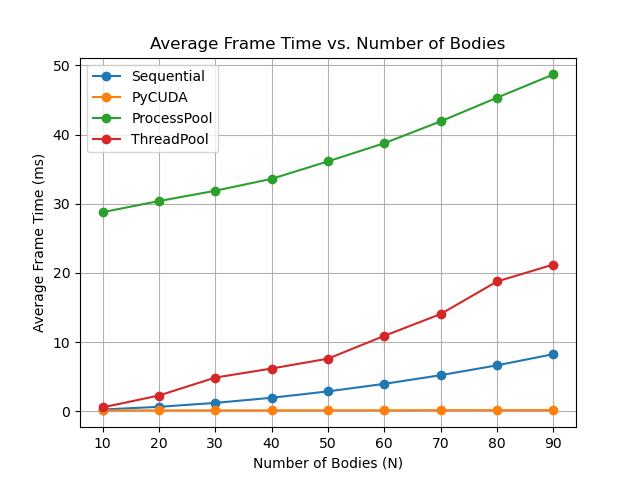
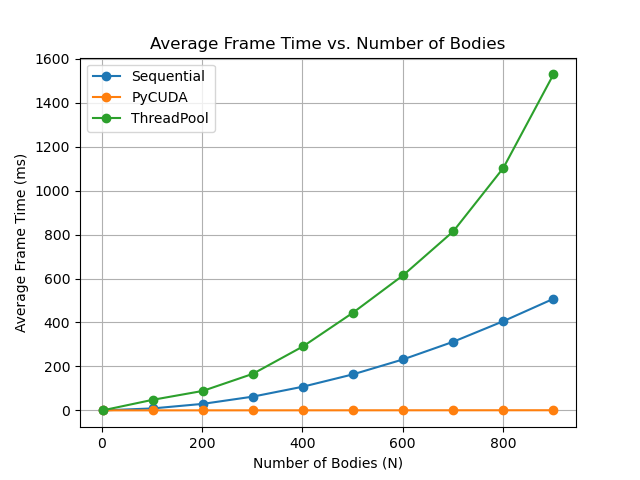
Fix concurrent handler

diff --git a/src/concurrent_handler.py b/src/concurrent_handler.py
@@ -16,23 +16,25 @@ class ConcurrentProcessHandler:
         else:
             self.bodies = bodies
         self.G = G
-        self.softening = softening**3
+        self.softening = softening
         self._total_time = 0.0
         self._frame_count = 0
+        self.positions = []  # To store the positions of all bodies at each timestep
 
     def calculate_acceleration(self, body: Body, other_bodies: List[Body]):
-        for i, body in enumerate(self.bodies):
-            acceleration = np.zeros(2)
-            for j, other_body in enumerate(self.bodies):
-                if i != j:
-                    distance_vector = other_body.position - body.position
-                    distance = np.linalg.norm(distance_vector + self.softening)
-                    acceleration += self.G * other_body.mass / (distance**3) * distance_vector
+        acceleration = np.zeros(2)
+        for other_body in other_bodies:
+            if body != other_body:
+                distance_vector = other_body.position - body.position
+                distance = np.linalg.norm(distance_vector)
+                acceleration += self.G * other_body.mass / (distance**3 + self.softening) * distance_vector
         return acceleration
 
-    def update_body(self, body: Body, dt: float, other_bodies: List[Body]):
-        acceleration = self.calculate_acceleration(body, other_bodies)
-        body.update_velocity(body.velocity + acceleration * dt)
+    def update_body(self, body_index: int, dt: float):
+        body = self.bodies[body_index]
+        acceleration = self.calculate_acceleration(body, self.bodies)
+        body.update_acceleration(acceleration)
+        body.update_velocity(body.velocity + body.acceleration * dt)
         body.update_position(body.position + body.velocity * dt)
         return body
 
@@ -40,8 +42,12 @@ class ConcurrentProcessHandler:
         start_time = time.perf_counter() if measure_time else None
 
         with ProcessPoolExecutor() as executor:
-            futures = [executor.submit(self.update_body, body, dt, self.bodies) for body in self.bodies]
+            futures = [executor.submit(self.update_body, i, dt) for i in range(len(self.bodies))]
             self.bodies = [future.result() for future in as_completed(futures)]
+
+        # Store the current positions of all bodies
+        positions = [body.position for body in self.bodies]
+        self.positions.append(positions)
 
         if measure_time:
             end_time = time.perf_counter()
@@ -56,12 +62,6 @@ class ConcurrentProcessHandler:
         else:
             return 0.0
 
-import numpy as np
-from body import Body
-import time
-from typing import List, Optional
-from concurrent.futures import ThreadPoolExecutor, as_completed
-from threading import Lock
 
 class ConcurrentThreadHandler:
     def __init__(self, N: int, G: float = 6.6743e-11, softening: float = 0.1, bodies: Optional[List[Body]] = None):
@@ -91,10 +91,9 @@ class ConcurrentThreadHandler:
     def update_body(self, body_index: int, dt: float):
         body = self.bodies[body_index]
         acceleration = self.calculate_acceleration(body, self.bodies)
-        with self.lock:
-            body.update_acceleration(acceleration)
-            body.update_velocity(dt)
-            body.update_position(dt)
+        body.update_acceleration(acceleration)
+        body.update_velocity(body.velocity + body.acceleration * dt)
+        body.update_position(body.position + body.velocity * dt)
 
     def update_simulation(self, dt: float, measure_time: bool = False):
         start_time = time.perf_counter() if measure_time else None
@@ -104,7 +103,9 @@ class ConcurrentThreadHandler:
             as_completed(futures)  # Wait for all threads to complete
 
         # Store the current positions of all bodies
-        self.positions.append(np.array([body.position for body in self.bodies]))
+        with self.lock:
+            positions = [body.position for body in self.bodies]
+            self.positions.append(positions)
 
         if measure_time:
             end_time = time.perf_counter()

diff --git a/src/simulate.py b/src/simulate.py
@@ -31,7 +31,7 @@ class SimulationRunner:
     def run(self, measure_time=False):
         for _ in tqdm(range(self.steps), desc="Computing simulation...", colour="red"):
             self.handler.update_simulation(self.dt, measure_time=measure_time)
-            self.positions.append([body.position for body in self.handler.bodies])
+            self.positions.append(np.array([body.position for body in self.handler.bodies]))
 
     def create_gif(self, input_video, output_gif, fps=15, width=600):
         command = [
@@ -47,20 +47,22 @@ class SimulationRunner:
         subprocess.run(command, check=True)
 
     def visualize(self, save: bool = False, output_file: str='simulations/simulation', speed_factor: int=1, base_interval:int =50):
+        #plt.style.use('classic')
         plt.style.use('dark_background')
-
         fig, ax = plt.subplots()
-        ax.set_xlim((-1, 30))
-        ax.set_ylim((-1, 30))
+        num = 8
+        ax.set_xlim((-num, num))
+        ax.set_ylim((-num, num))
         ax.axis('off') # Desactivar los ejes
         # Obtener una paleta de colores
         cmap = plt.get_cmap('viridis', len(self.positions[0]))
         lines = [ax.plot([], [], 'o', color=cmap(i))[0] for i in range(len(self.positions[0]))]
         trails = [ax.plot([], [], '-', linewidth=0.5, color=cmap(i))[0] for i in range(len(self.positions[0]))]
         margin_x, margin_y = 0.02, 0.98  # Ajusta estos valores para cambiar el margen
-        ax.annotate(f'GC: {self.G:.2e}', xy=(margin_x, margin_y), xycoords='axes fraction', color='white', verticalalignment='top', horizontalalignment='left')
-        ax.annotate(f'$\epsilon$: {self.epsilon}', xy=(margin_x, margin_y - 0.05), xycoords='axes fraction', color='white', verticalalignment='top', horizontalalignment='left')
-        ax.annotate(f'N: {len(self.bodies)}', xy=(margin_x, margin_y - 0.10), xycoords='axes fraction', color='white', verticalalignment='top', horizontalalignment='left')
+        color = 'white'
+        ax.annotate(f'GC: {self.G:.2e}', xy=(margin_x, margin_y), xycoords='axes fraction', color=color, verticalalignment='top', horizontalalignment='left')
+        ax.annotate(f'$\epsilon$: {self.epsilon}', xy=(margin_x, margin_y - 0.05), xycoords='axes fraction', color=color, verticalalignment='top', horizontalalignment='left')
+        ax.annotate(f'N: {len(self.bodies)}', xy=(margin_x, margin_y - 0.10), xycoords='axes fraction', color=color, verticalalignment='top', horizontalalignment='left')
 
         def init():
             for line in lines:
@@ -111,14 +113,21 @@ def main():
         ]
         return bodies
     
+    def three_particles():
+        bodies = [
+            Body(mass=1, position=[-1, 0], velocity=[0.2, 0.3]),
+            Body(mass=1.5, position=[1, 0], velocity=[0.2, 0.3]),
+            Body(mass=1.6, position=[0, 1], velocity=[0.2, 0.2])
+        ]
+        return bodies
 
-    bodies = four_particles()
+    bodies = three_particles()
     # Crear e inicializar el runner de la simulación
     seq_handler = SequentialHandler(N=len(bodies), G=G, bodies=bodies, softening=.3)
     parallel_handler = ParallelHandler(N=len(bodies), G=G, bodies=bodies, softening=.3)
     process_handler = ConcurrentProcessHandler(N=len(bodies), G=G, bodies=bodies, softening=.3)
     thread_handler = ConcurrentThreadHandler(N=len(bodies), G=G, bodies=bodies, softening=.3)
-    simulation_runner = SimulationRunner(dt=dt, total_time=total_time, simulationHandler=thread_handler)
+    simulation_runner = SimulationRunner(dt=dt, total_time=total_time, simulationHandler=seq_handler)
 
     # Ejecutar la simulación
     simulation_runner.run(measure_time=measure_time)

diff --git a/src/experiment_pipeline.py b/src/experiment_pipeline.py
@@ -32,29 +32,33 @@ class Experiment:
             self.seq_results = results
         elif isinstance(handler, ParallelHandler):
             self.cuda_results = results
-        elif isinstance(handler, ConcurrentProcessHandler):
-            self.process_results = results
+        #elif isinstance(handler, ConcurrentProcessHandler):
+        #    self.process_results = results
         elif isinstance(handler, ConcurrentThreadHandler):
             self.thread_results = results
 
     def save_results_to_csv(self) -> None:
         with open(self.output_path, 'w', newline='') as file:
             writer = csv.writer(file)
-            writer.writerow(['N', 'Sequential', 'PyCUDA', 'ProcessPool', 'ThreadPool'])
+            #writer.writerow(['N', 'Sequential', 'PyCUDA', 'ProcessPool', 'ThreadPool'])
+            writer.writerow(['N', 'Sequential', 'PyCUDA', 'ThreadPool'])
             for i in range(len(self.seq_results)):
-                row = [self.seq_results[i][0], self.seq_results[i][1], self.cuda_results[i][1],
-                       self.process_results[i][1], self.thread_results[i][1]]
+                #row = [self.seq_results[i][0], self.seq_results[i][1], self.cuda_results[i][1], self.process_results[i][1], self.thread_results[i][1]]
+                row = [self.seq_results[i][0], 
+                       self.seq_results[i][1], 
+                       self.cuda_results[i][1], 
+                       self.thread_results[i][1]]
                 writer.writerow(row)
 
     def plot_results(self) -> None:
         N_values, seq_values = zip(*self.seq_results)
         _, cuda_values = zip(*self.cuda_results)
-        _, process_values = zip(*self.process_results)
+        #_, process_values = zip(*self.process_results)
         _, thread_values = zip(*self.thread_results)
 
         plt.plot(N_values, seq_values, marker='o', label='Sequential')
         plt.plot(N_values, cuda_values, marker='o', label='PyCUDA')
-        plt.plot(N_values, process_values, marker='o', label='ProcessPool')
+        #plt.plot(N_values, process_values, marker='o', label='ProcessPool')
         plt.plot(N_values, thread_values, marker='o', label='ThreadPool')
         plt.xlabel('Number of Bodies (N)')
         plt.ylabel('Average Frame Time (ms)')
@@ -65,22 +69,22 @@ class Experiment:
         plt.show()
 
 def main() -> None:
-    experiment = Experiment(output_path='experiments/experiment_results.csv')
-    N_range = range(10, 100, 10)
+    path = "/home/mariopasc/Python/Projects/NBodySimulation/N-Body-Simulation-Python/experiments/experiment_results.csv"
+    experiment = Experiment(output_path=path)
+    N_range = range(1, 1000, 100)
     G = 1
     dt = 0.01
     total_time = 1
 
     seq_handler = SequentialHandler(N=0, G=G, softening=0.1)
     cuda_handler = ParallelHandler(N=0, G=G, softening=0.1)
-    process_handler = ConcurrentProcessHandler(N=0, G=G, softening=0.1)
+    #process_handler = ConcurrentProcessHandler(N=0, G=G, softening=0.1)
     thread_handler = ConcurrentThreadHandler(N=0, G=G, softening=0.1)
 
     experiment.run_experiment(N_range, G, dt, total_time, seq_handler)
     experiment.run_experiment(N_range, G, dt, total_time, cuda_handler)
-    experiment.run_experiment(N_range, G, dt, total_time, process_handler)
+    #experiment.run_experiment(N_range, G, dt, total_time, process_handler)
     experiment.run_experiment(N_range, G, dt, total_time, thread_handler)
-
     experiment.save_results_to_csv()
     experiment.plot_results()
 

diff --git a/src/softening_experiment.py b/src/softening_experiment.py
@@ -1,0 +1,33 @@
+import numpy as np
+import matplotlib.pyplot as plt
+import os 
+def calculate_force(distance, mass1, mass2, G, softening):
+    r = distance + softening
+    force = G * mass1 * mass2 / r**3
+    return force
+
+# Parámetros de la simulación
+mass1 = 1.0
+mass2 = 1.0
+G = 1.0
+
+# Valores de softening a evaluar
+softening_values = [0.0, 0.3, 0.5, 1]
+
+# Rango de distancias a evaluar
+distances = np.linspace(0.0001, 10, 1000)
+
+# Calcular y graficar las fuerzas para cada valor de softening
+for softening in softening_values:
+    forces = [calculate_force(distance, mass1, mass2, G, softening) for distance in distances]
+    plt.plot(distances, forces, label=f"Softening = {softening}")
+
+plt.xlabel("Distancia ($r$)")
+plt.ylabel("Fuerza ($F$)")
+plt.title("Fuerza vs Distancia para diferentes valores de Softening")
+plt.xlim([0,2])
+plt.ylim([0,50])
+plt.legend()
+plt.grid(True)
+plt.savefig(os.path.join("/home/mariopasc/Python/Projects/NBodySimulation/N-Body-Simulation-Python/experiments","Softening.png"))
+plt.show()

diff --git a/src/parallel_handler.py b/src/parallel_handler.py
@@ -16,7 +16,7 @@ class ParallelHandler:
         else:
             self.bodies = bodies
         self.G = G
-        self.softening = softening**3
+        self.softening = softening
         self.eps = 0.5
         self._total_time = 0.0
         self._frame_count = 0
